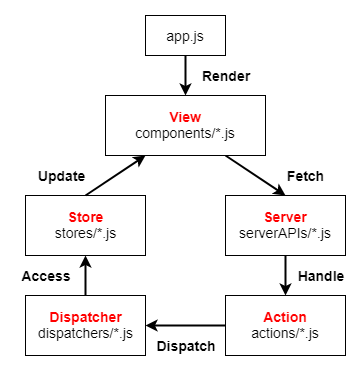
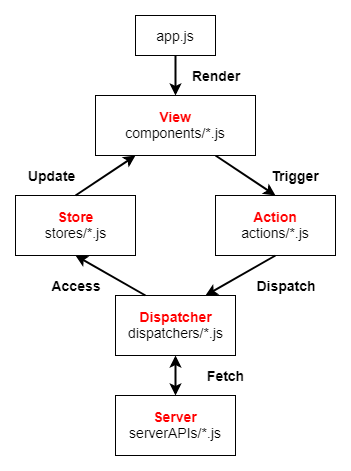
[update]  1. update article of Flux

diff --git a/index.js b/index.js
@@ -2087,7 +2087,7 @@ var Menu = function (_React$Component) {
         props_menu.className += ' ' + this.props.className;
       };
       var props_content = this.createBasicProps('menu-content');
-      var content_height = parseInt(!this.env.styleObj['item-content'] ? CONTENT_HEIGHT : this.env.styleObj['item-content']['height'] ? this.env.styleObj['item-content']['height'] : this.env.styleObj['item-content']['line-height'] ? this.env.styleObj['item-content']['line-height'] : CONTENT_HEIGHT);
+      var content_height = parseInt(this.env.styleObj['item-content']['height']);
       props_content.style['height'] = itemCount * content_height;
       var props_layer = this.createBasicProps('menu-layer');
       var layerNextName = 'layer-' + nextLayer;
@@ -2161,6 +2161,13 @@ var Menu = function (_React$Component) {
           _this4.expandRecursionFn(infoObj);
         }
       });
+      if (!this.env.styleObj['item-content']) {
+        this.env.styleObj['item-content'] = {
+          'height': CONTENT_HEIGHT + 'px'
+        };
+      } else if (!this.env.styleObj['item-content']['height']) {
+        this.env.styleObj['item-content']['height'] = this.env.styleObj['item-content']['line-height'] ? this.env.styleObj['item-content']['line-height'] : this.env.styleObj['item-content']['font-size'] ? this.env.styleObj['item-content']['font-size'] : CONTENT_HEIGHT + 'px';
+      };
     }
   }, {
     key: 'initCollapseStautsFn',
@@ -2270,7 +2277,7 @@ var Menu = function (_React$Component) {
             if (_this5.env.featureCollapsible.enable && _this5.collapseStatusList[infoObj.index]) {
               props_submenu.className += ' collapsed';
             };
-            var content_height = parseInt(!_this5.env.styleObj['item-content'] ? CONTENT_HEIGHT : _this5.env.styleObj['item-content']['height'] ? _this5.env.styleObj['item-content']['height'] : _this5.env.styleObj['item-content']['line-height'] ? _this5.env.styleObj['item-content']['line-height'] : CONTENT_HEIGHT);
+            var content_height = parseInt(_this5.env.styleObj['item-content']['height']);
             props_submenu.style['height'] = _this5.countRecursionFn(infoObj) * content_height;
             var props_layer = _this5.createBasicProps('menu-layer');
             var layerNextName = 'layer-' + nextLayer;
@@ -3994,7 +4001,7 @@ exports = module.exports = __webpack_require__(90)(false);
 
 
 // module
-exports.push([module.i, "body {\n  margin: 0;\n  padding: 0;\n  font-size: 16px;\n  font-family: Arial, 'Times New Roman', Times, serif;\n  font-weight: 100;\n  overflow-x: hidden;\n}\nspan + span {\n  margin-left: 5px;\n}\nbutton {\n  font-size: 14px;\n}\n.wrapper {\n  width: 100%;\n  height: 100%;\n}\n.wrapper.wrapper-home {\n  background-color: #000;\n}\n.wrapper.wrapper-basic,\n.wrapper.wrapper-advance {\n  width: calc(100% - (15px * 2));\n  margin: auto;\n  padding: 15px 15px;\n}\n.linkBtn {\n  cursor: pointer;\n  color: #aaa;\n}\n.linkBtn:hover {\n  color: #000;\n}\n.wrapper .sideContent {\n  width: 200px;\n  background-color: #000;\n  color: #fff;\n  float: left;\n  min-height: 100vh;\n  display: inline-block;\n  vertical-align: top;\n}\n.wrapper .sideContent .header {\n  background-color: #61dafb;\n  margin-bottom: 15px;\n  position: relative;\n  height: 104px;\n}\n.wrapper .sideContent .groupname {\n  background-color: #000;\n  line-height: 20px;\n  text-align: right;\n  padding: 2px 15px;\n}\n.wrapper .sideContent .icon {\n  border-radius: 10px;\n  width: 50px;\n  height: 50px;\n  line-height: 50px;\n  background-color: #000;\n  text-align: center;\n  margin: 15px;\n  font-size: 36px;\n}\n.wrapper .sideContent .icon .fa {\n  vertical-align: middle;\n}\n.wrapper .sideContent .welcome {\n  left: calc(50px + (15px * 2));\n  line-height: 20px;\n  text-align: center;\n  padding: 30px 0;\n  position: absolute;\n  bottom: 0;\n  right: 0;\n  color: #000;\n}\n.wrapper .mainContent {\n  width: calc(100% - (200px + 130px ));\n  display: inline-block;\n  padding-right: 130px;\n  background-color: #fff;\n}\n.btb-exampleLayout.wrapper {\n  display: inline-block;\n  width: unset;\n}\n.btb-exampleLayout.title {\n  font-size: 16px;\n  color: #000;\n  font-weight: 700;\n  margin: 5px 0;\n}\n.btb-exampleLayout.part {\n  margin: 5px;\n}\n.btb-exampleLayout.block {\n  min-width: 150px;\n  vertical-align: top;\n}\n.btb-exampleLayout.inlineBlock {\n  min-width: 150px;\n  vertical-align: top;\n  display: inline-block;\n}\n.btb-exampleLayout.inlineBlock + .inlineBlock {\n  margin-left: 10px;\n}\n.btb-articleLayout.mainTitle {\n  font-size: 30px;\n  font-weight: bold;\n  margin: 30px 15px 0;\n}\n.btb-articleLayout.mainDescription {\n  margin: 0 15px 30px;\n}\n.btb-articleLayout.section {\n  width: 100%;\n  font-size: 14px;\n}\n.btb-articleLayout.section + .btb-articleLayout.section {\n  margin-top: 30px;\n}\n.btb-articleLayout.sectionTitle {\n  color: #aaa;\n  border-bottom: 1px solid #aaa;\n  margin: 0 15px;\n  font-weight: bold;\n}\n.btb-articleLayout.sectionSubtitle {\n  font-weight: bold;\n  margin: 15px 0;\n}\n.btb-articleLayout.content {\n  color: #000;\n  margin: 15px 30px;\n}\n.btb-articleLayout.content-pre {\n  color: #f3f3f3;\n  background-color: #373940;\n  font-family: Consolas, \"Liberation Mono\", Menlo, Monaco, Courier, monospace;\n  margin: 15px 30px;\n  padding: 10px 15px;\n  white-space: pre-wrap;\n}\n.btb-articleLayout.content-item {\n  text-align: center;\n  margin: 15px 30px;\n}\n.btb-articleLayout.notice {\n  color: #aaa;\n  display: inline;\n}\n.btb-articleLayout.buttonGroup {\n  margin: 0 15px;\n}\n.btb-articleRedirectBtn {\n  border: 1px solid #aaa;\n  border-radius: 15px;\n  color: #aaa;\n  cursor: pointer;\n  font-size: 13px;\n  padding: 3px 5px;\n  position: fixed;\n  bottom: 15px;\n  right: 15px;\n}\n.btb-articleRedirectBtn:hover {\n  border-color: #000;\n  color: #000;\n}\n.example-userList {\n  padding: 5px;\n  border: 1px solid #aaa;\n  border-radius: 5px;\n  box-shadow: 2px 2px 4px 2px #aaa;\n}\n.example-userList .userList-add {\n  margin-top: 10px;\n}\n.example-userList .userList-add .userList-input {\n  border: 2px solid #aaa;\n  border-radius: 5px;\n  font-size: 10px;\n  padding: 2px 10px;\n}\n.example-userList .userList-add .userList-input:focus,\n.example-userList .userList-add .userList-input:hover {\n  border-color: #777;\n}\n.example-userList .userList-add .userList-addButton {\n  color: #aaa;\n  background: rgba(0, 0, 0, 0) none repeat scroll 0 0;\n  border: medium none;\n  font-size: 15px;\n  margin-left: 5px;\n  padding: 0;\n  vertical-align: top;\n  cursor: pointer;\n}\n.example-userList .userList-add .userList-addButton:hover {\n  color: #ff0000;\n}\n.example-userList .example-block .userList-info {\n  margin-right: 40px;\n}\n.example-userList .userList-list {\n  border: 2px solid #aaa;\n  border-radius: 7px;\n  padding: 0px;\n  margin: 5px 0;\n}\n.example-userList .userList-list .userList-entry {\n  border-radius: 5px;\n  cursor: default;\n  padding: 2px 5px;\n  position: relative;\n  text-align: left;\n  overflow: hidden;\n}\n.example-userList .userList-list .userList-entry .userList-info {\n  margin-right: 40px;\n}\n.example-userList .userList-list .userList-entry .userList-deleteButton {\n  transition: opacity 0.5s ease 0s, right 0.5s ease 0s;\n  color: #ff0000;\n  opacity: 0;\n  position: absolute;\n  right: -20px;\n  top: 3px;\n  cursor: pointer;\n}\n.example-userList .userList-list .userList-entry:hover {\n  background-color: #ccc;\n}\n.example-userList .userList-list .userList-entry:hover .userList-deleteButton {\n  right: 2px;\n  opacity: 1;\n}\n.example-userList .userList-list .userList-entry .userList-moveButton {\n  transition: opacity 0.5s ease 0s, right 0.5s ease 0s;\n  color: #ff0000;\n  opacity: 0;\n  position: absolute;\n  right: -20px;\n  top: 3px;\n  cursor: pointer;\n}\n.example-userList .userList-list .userList-entry:hover {\n  background-color: #ccc;\n}\n.example-userList .userList-list .userList-entry:hover .userList-moveButton {\n  right: 22px;\n  opacity: 1;\n}\n.example-userList .userList-list .userList-entry-empty {\n  list-style: outside none none;\n  text-align: center;\n}\n.btb-menu.menu {\n  color: #fff;\n}\n.btb-menu.menu .layer-item.activeTop {\n  background-color: #373940;\n  border-left: 5px solid #61dafb;\n}\n.btb-menu.menu .layer-item.activeParent > .item-content .content-name {\n  color: #61dafb;\n}\n.btb-menu.menu .layer-item.activeParent > .item-content .collapse-arrow {\n  border-color: #61dafb transparent transparent;\n}\n.btb-menu.menu .layer-item.active > .item-content {\n  background-color: #373940;\n}\n.btb-menu.menu .layer-item.active > .item-content .content-name {\n  color: #61dafb;\n}\n.btb-menu.menu .layer-item.active > .item-content .collapse-arrow {\n  border-color: #61dafb transparent transparent;\n}\n.btb-menu.menu .item-content:hover {\n  background-color: #373940;\n}\n.btb-menu.menu .item-content:hover .content-name {\n  color: #61dafb;\n}\n.btb-menu.menu .item-content:hover .collapse-arrow {\n  border-color: #61dafb transparent transparent;\n}\n.btb-menu.menu .collapse-arrow {\n  border-color: #fff transparent transparent;\n}\n.btb-list.content-nodetree {\n  background-color: #d6e4ff;\n  margin: auto;\n  width: calc(100% - (75px * 2));\n  padding: 15px;\n}\n.btb-table.content-paramlist {\n  margin: auto;\n  width: calc(100% - (60px * 2));\n}\n.btb-table.content-paramlist .table-list {\n  border-collapse: collapse;\n  border-spacing: 0;\n}\n.btb-table.content-paramlist .tr-th {\n  background-color: #d6e4ff;\n  border: 2px solid #d6e4ff;\n  padding: 2px 15px;\n}\n.btb-table.content-paramlist .tr-td {\n  border: 2px solid #d6e4ff;\n  text-align: center;\n  padding: 2px 15px;\n}\n.btb-table.content-paramlist .td-name {\n  text-align: left;\n  white-space: nowrap;\n}\n.btb-table.content-paramlist .td-notice {\n  text-align: left;\n}\n.btb-table.content-paramlist .content-pre {\n  margin: 5px 0;\n  padding: 5px 15px;\n}\n", ""]);
+exports.push([module.i, "body {\n  margin: 0;\n  padding: 0;\n  font-size: 16px;\n  font-family: Arial, 'Times New Roman', Times, serif;\n  font-weight: 100;\n  overflow-x: hidden;\n}\nspan + span {\n  margin-left: 5px;\n}\nbutton {\n  font-size: 14px;\n}\n.wrapper {\n  width: 100%;\n  height: 100%;\n}\n.wrapper.wrapper-home {\n  background-color: #000;\n}\n.wrapper.wrapper-basic,\n.wrapper.wrapper-advance {\n  width: calc(100% - (15px * 2));\n  margin: auto;\n  padding: 15px 15px;\n}\n.linkBtn {\n  cursor: pointer;\n  color: #aaa;\n}\n.linkBtn:hover {\n  color: #000;\n}\n.wrapper .sideContent {\n  width: 200px;\n  background-color: #000;\n  color: #fff;\n  vertical-align: top;\n  display: inline-block;\n  min-height: 100vh;\n}\n.wrapper .sideContent .header {\n  background-color: #61dafb;\n  margin-bottom: 15px;\n  position: relative;\n  height: 104px;\n}\n.wrapper .sideContent .groupname {\n  background-color: #000;\n  line-height: 20px;\n  text-align: right;\n  padding: 2px 15px;\n}\n.wrapper .sideContent .icon {\n  border-radius: 10px;\n  width: 50px;\n  height: 50px;\n  line-height: 50px;\n  background-color: #000;\n  text-align: center;\n  margin: 15px;\n  font-size: 36px;\n}\n.wrapper .sideContent .icon .fa {\n  vertical-align: middle;\n}\n.wrapper .sideContent .welcome {\n  left: calc(50px + (15px * 2));\n  line-height: 20px;\n  text-align: center;\n  padding: 30px 0;\n  position: absolute;\n  bottom: 0;\n  right: 0;\n  color: #000;\n}\n.wrapper .mainContent {\n  width: calc(100% - (200px + 130px ));\n  padding-right: 130px;\n  background-color: #fff;\n  display: inline-block;\n  min-height: 100vh;\n}\n.btb-exampleLayout.wrapper {\n  display: inline-block;\n  width: unset;\n}\n.btb-exampleLayout.title {\n  font-size: 16px;\n  color: #000;\n  font-weight: 700;\n  margin: 5px 0;\n}\n.btb-exampleLayout.part {\n  margin: 5px;\n}\n.btb-exampleLayout.block {\n  min-width: 150px;\n  vertical-align: top;\n}\n.btb-exampleLayout.inlineBlock {\n  min-width: 150px;\n  vertical-align: top;\n  display: inline-block;\n}\n.btb-exampleLayout.inlineBlock + .inlineBlock {\n  margin-left: 10px;\n}\n.btb-articleLayout.mainTitle {\n  font-size: 30px;\n  font-weight: bold;\n  margin: 30px 15px 0;\n}\n.btb-articleLayout.mainDescription {\n  margin: 0 15px 30px;\n}\n.btb-articleLayout.section {\n  width: 100%;\n  font-size: 14px;\n}\n.btb-articleLayout.section + .btb-articleLayout.section {\n  margin-top: 30px;\n}\n.btb-articleLayout.sectionTitle {\n  color: #aaa;\n  border-bottom: 1px solid #aaa;\n  margin: 0 15px;\n  font-weight: bold;\n}\n.btb-articleLayout.sectionSubtitle {\n  font-weight: bold;\n  margin: 15px 0;\n}\n.btb-articleLayout.content {\n  color: #000;\n  margin: 15px 30px;\n}\n.btb-articleLayout.content-pre {\n  color: #f3f3f3;\n  background-color: #373940;\n  font-family: Consolas, \"Liberation Mono\", Menlo, Monaco, Courier, monospace;\n  margin: 15px 30px;\n  padding: 10px 15px;\n  white-space: pre-wrap;\n}\n.btb-articleLayout.content-item {\n  text-align: center;\n  margin: 15px 30px;\n}\n.btb-articleLayout.notice {\n  color: #aaa;\n  display: inline;\n}\n.btb-articleLayout.buttonGroup {\n  margin: 0 15px;\n}\n.btb-articleRedirectBtn {\n  border: 1px solid #aaa;\n  border-radius: 15px;\n  color: #aaa;\n  cursor: pointer;\n  font-size: 13px;\n  padding: 3px 5px;\n  position: fixed;\n  bottom: 15px;\n  right: 15px;\n}\n.btb-articleRedirectBtn:hover {\n  border-color: #000;\n  color: #000;\n}\n.example-userList {\n  padding: 5px;\n  border: 1px solid #aaa;\n  border-radius: 5px;\n  box-shadow: 2px 2px 4px 2px #aaa;\n}\n.example-userList .userList-add {\n  margin-top: 10px;\n}\n.example-userList .userList-add .userList-input {\n  border: 2px solid #aaa;\n  border-radius: 5px;\n  font-size: 10px;\n  padding: 2px 10px;\n}\n.example-userList .userList-add .userList-input:focus,\n.example-userList .userList-add .userList-input:hover {\n  border-color: #777;\n}\n.example-userList .userList-add .userList-addButton {\n  color: #aaa;\n  background: rgba(0, 0, 0, 0) none repeat scroll 0 0;\n  border: medium none;\n  font-size: 15px;\n  margin-left: 5px;\n  padding: 0;\n  vertical-align: top;\n  cursor: pointer;\n}\n.example-userList .userList-add .userList-addButton:hover {\n  color: #ff0000;\n}\n.example-userList .example-block .userList-info {\n  margin-right: 40px;\n}\n.example-userList .userList-list {\n  border: 2px solid #aaa;\n  border-radius: 7px;\n  padding: 0px;\n  margin: 5px 0;\n}\n.example-userList .userList-list .userList-entry {\n  border-radius: 5px;\n  cursor: default;\n  padding: 2px 5px;\n  position: relative;\n  text-align: left;\n  overflow: hidden;\n}\n.example-userList .userList-list .userList-entry .userList-info {\n  margin-right: 40px;\n}\n.example-userList .userList-list .userList-entry .userList-deleteButton {\n  transition: opacity 0.5s ease 0s, right 0.5s ease 0s;\n  color: #ff0000;\n  opacity: 0;\n  position: absolute;\n  right: -20px;\n  top: 3px;\n  cursor: pointer;\n}\n.example-userList .userList-list .userList-entry:hover {\n  background-color: #ccc;\n}\n.example-userList .userList-list .userList-entry:hover .userList-deleteButton {\n  right: 2px;\n  opacity: 1;\n}\n.example-userList .userList-list .userList-entry .userList-moveButton {\n  transition: opacity 0.5s ease 0s, right 0.5s ease 0s;\n  color: #ff0000;\n  opacity: 0;\n  position: absolute;\n  right: -20px;\n  top: 3px;\n  cursor: pointer;\n}\n.example-userList .userList-list .userList-entry:hover {\n  background-color: #ccc;\n}\n.example-userList .userList-list .userList-entry:hover .userList-moveButton {\n  right: 22px;\n  opacity: 1;\n}\n.example-userList .userList-list .userList-entry-empty {\n  list-style: outside none none;\n  text-align: center;\n}\n.btb-menu.menu {\n  color: #fff;\n}\n.btb-menu.menu .layer-item.activeTop {\n  background-color: #373940;\n  border-left: 5px solid #61dafb;\n}\n.btb-menu.menu .layer-item.activeParent > .item-content .content-name {\n  color: #61dafb;\n}\n.btb-menu.menu .layer-item.activeParent > .item-content .collapse-arrow {\n  border-color: #61dafb transparent transparent;\n}\n.btb-menu.menu .layer-item.active > .item-content {\n  background-color: #373940;\n}\n.btb-menu.menu .layer-item.active > .item-content .content-name {\n  color: #61dafb;\n}\n.btb-menu.menu .layer-item.active > .item-content .collapse-arrow {\n  border-color: #61dafb transparent transparent;\n}\n.btb-menu.menu .item-content:hover {\n  background-color: #373940;\n}\n.btb-menu.menu .item-content:hover .content-name {\n  color: #61dafb;\n}\n.btb-menu.menu .item-content:hover .collapse-arrow {\n  border-color: #61dafb transparent transparent;\n}\n.btb-menu.menu .collapse-arrow {\n  border-color: #fff transparent transparent;\n}\n.btb-list.content-nodetree {\n  background-color: #d6e4ff;\n  margin: auto;\n  width: calc(100% - (75px * 2));\n  padding: 15px;\n}\n.btb-table.content-paramlist {\n  margin: auto;\n  width: calc(100% - (60px * 2));\n}\n.btb-table.content-paramlist .table-list {\n  border-collapse: collapse;\n  border-spacing: 0;\n}\n.btb-table.content-paramlist .tr-th {\n  background-color: #d6e4ff;\n  border: 2px solid #d6e4ff;\n  padding: 2px 15px;\n}\n.btb-table.content-paramlist .tr-td {\n  border: 2px solid #d6e4ff;\n  text-align: center;\n  padding: 2px 15px;\n}\n.btb-table.content-paramlist .td-name {\n  text-align: left;\n  white-space: nowrap;\n}\n.btb-table.content-paramlist .td-notice {\n  text-align: left;\n}\n.btb-table.content-paramlist .content-pre {\n  margin: 5px 0;\n  padding: 5px 15px;\n}\n", ""]);
 
 // exports
 
@@ -4833,7 +4840,7 @@ var mainDescriptionStr = 'There are my articles introducing some knowledge in co
 var articleListTitle = 'ARTICLE LIST';
 var articleListContent = 'We would list to introduce you some others masterpiece in conceptual. Hope our articles will do help somehow in algorithmic angle. And if you have problem to use them, welcome to contact me. We can figure it out together.';
 
-var articleList = new Array({ 'name': 'Flux Introduction', 'link': 'BTB_ATCS_FLUX', 'updated': '2018-05-06' }, { 'name': 'Redux Introduction', 'link': 'BTB_ATCS_REDUX', 'updated': '2018-05-06' });
+var articleList = new Array({ 'name': 'Flux Introduction', 'link': 'BTB_ATCS_FLUX', 'updated': '2018-07-22' }, { 'name': 'Redux Introduction', 'link': 'BTB_ATCS_REDUX', 'updated': '2018-05-06' });
 
 var Index = function Index(props) {
   var content = [];
@@ -4885,7 +4892,7 @@ var Index = function Index(props) {
               _react2.default.createElement(
                 _articleLayout2.default.Notice,
                 null,
-                '[UPDATED: ',
+                ' [UPDATED: ',
                 entry.updated,
                 ']'
               )
@@ -5027,7 +5034,7 @@ var productionTitle = 'PRODUCTION';
 var productionContent = 'Here we go! This is the example in Flux version.';
 
 var advancedTitle = 'ADVANCED';
-var advancedContent = 'The more usual case. What if our data is coming from server and where should we add server API in the Flux flow? To keep the rule of Flux framework. We use APIs to access server\'s data before Action. However why it is not added duing Store? Think the definition of "What the data actually is for Flux?". Here in Flux, the data means View\'s data, not the server\'s data. So that, we allowed to access server\'s data directly, then Store will get data from server. The following picture is the flow of Flux with server API.';
+var advancedContent = 'The more usual case. What if our data is coming from server and where should we add server API in the Flux flow? Here is a example added server API to dispatch.';
 var advancedServerContent = _react2.default.createElement(
   'span',
   null,
@@ -6503,7 +6510,7 @@ var productionTitle = 'PRODUCTION';
 var productionContent = 'Here we go! This is the example in Redux version.';
 
 var advancedTitle = 'ADVANCED';
-var advancedContent = 'In Flux\'s, We can update by ourself. However in Redux\'s, we centralize all state in Redux. So that with difference from Flux\'s, we need fetch API beneath reducer. And that is reason why we almost use stateless function both in Container and Component.';
+var advancedContent = 'Same as our article of Flux, we will need read / write data by server API. Here is Redux\'s version.';
 var advancedServerContent = _react2.default.createElement(
   'span',
   null,
@@ -10577,6 +10584,8 @@ Object.defineProperty(exports, "__esModule", {
 
 var _createClass = function () { function defineProperties(target, props) { for (var i = 0; i < props.length; i++) { var descriptor = props[i]; descriptor.enumerable = descriptor.enumerable || false; descriptor.configurable = true; if ("value" in descriptor) descriptor.writable = true; Object.defineProperty(target, descriptor.key, descriptor); } } return function (Constructor, protoProps, staticProps) { if (protoProps) defineProperties(Constructor.prototype, protoProps); if (staticProps) defineProperties(Constructor, staticProps); return Constructor; }; }();
 
+var _extends = Object.assign || function (target) { for (var i = 1; i < arguments.length; i++) { var source = arguments[i]; for (var key in source) { if (Object.prototype.hasOwnProperty.call(source, key)) { target[key] = source[key]; } } } return target; };
+
 var _react = __webpack_require__(0);
 
 var _react2 = _interopRequireDefault(_react);
@@ -10627,14 +10636,15 @@ var rourceCodeSubTitle_Body = 'Body';
 var rourceCodeSubTitle_Mode = 'mode';
 var rourceCodeSubTitle_Style = 'Style';
 
-var ROURCECODE_RENDER_PRE = '<BTBTable \n  tableHeadArr={tableHeaderArr}\n  tableBobyArr={dataArr}\n  modeObj={modeObj}\n  styleObj={styleObj}\n  refFn={(ref)=>{this.listRef=ref}}\n/>';
+var ROURCECODE_RENDER_PRE = '<BTBTable \n  tableHeadArr={tableHeaderArr}\n  tableBobyArr={tableBodyArr}\n  modeObj={modeObj}\n  styleObj={styleObj}\n  refFn={(ref)=>{this.listRef=ref}}\n/>';
 var ROURCECODE_HEADER_PRE = 'tableHeaderArr = [\n  {name: \'Name\',        index: \'name\'},\n  {name: \'Description\', index: \'desc\'},\n  {name: \'OS Type\',     index: \'osType\'},\n  {name: \'IP Address\',  index: \'ipAddr\'},\n  {name: \'MAC Address\', index: \'macAddr\'},\n  {name: \'Statue\',      index: \'status\'}\n];';
-var ROURCECODE_BODY_PRE = 'dataArr = [\n  {\n    name: \'Device 1\', \n    desc: \'My phone\', \n    osType: \'IOS\', \n    ipAddr: \'192.168.0.50\', \n    macAddr: \'11:22:33:44:55:66\', \n    status: \'Disconnected\'\n  }\n];';
+var ROURCECODE_BODY_PRE = 'tableBodyArr = [\n  {\n    name: \'Device 1\', \n    desc: \'My phone\', \n    osType: \'IOS\', \n    ipAddr: \'192.168.0.50\', \n    macAddr: \'11:22:33:44:55:66\', \n    status: \'Disconnected\'\n  }\n];';
 var ROURCECODE_MODE_PRE = 'modeObj = {\n  mode : \'list\'\n};';
 var ROURCECODE_STYLE_PRE = 'styleObj = {\n  \'btb-table\': {\n    \'text-align\': \'center\'\n  },\n  \'table-list\': {\n    \'box-shadow\': \'2px 2px 4px 2px #aaa\'\n  },\n  \'tr-th\': {\n    \'background-color\': \'#bae7ff\',\n    \'padding\': \'2px 5px\'\n  },\n  \'tr-td\': {\n    \'padding\': \'2px 10px\'\n  },\n  \'td-name\': {\n    \'font-weight\': \'bold\'\n  },\n  \'td-ipAddr\': {\n    \'color\': \'blue\',\n    \'text-decoration\': \'underline\'\n  }\n};';
 
-var tableHeaderArr = [{ name: 'Name', index: 'name' }, { name: 'Description', index: 'desc' }, { name: 'OS Type', index: 'osType' }, { name: 'IP Address', index: 'ipAddr' }, { name: 'MAC Address', index: 'macAddr' }, { name: 'Statue', index: 'status' }];
-var dataArr = [{ name: 'Device 1', desc: 'My phone', osType: 'IOS', ipAddr: '192.168.0.50', macAddr: '11:22:33:44:55:66', status: 'Disconnected' }];
+var sortFeatureArr = [{ sortable: true, sortType: '', sortContent: '', defaultSortState: 'desc' }, { sortable: true, sortType: '', sortContent: '', defaultSortState: 'asc' }, { sortable: true, sortType: '', sortContent: '', defaultSortState: 'desc' }, { sortable: true, sortType: '', sortContent: '', defaultSortState: 'desc' }, { sortable: true, sortType: '', sortContent: '', defaultSortState: 'asc' }, { sortable: false, sortType: '', sortContent: '', defaultSortState: 'asc' }, { sortable: true, sortType: '', sortContent: '', defaultSortState: 'asc' }];
+var tableHeaderArr = [_extends({ name: 'Name', index: 'name' }, sortFeatureArr[0]), _extends({ name: 'Type', index: 'devType' }, sortFeatureArr[1]), _extends({ name: 'OS', index: 'osType' }, sortFeatureArr[2]), _extends({ name: 'IP', index: 'ipAddr' }, sortFeatureArr[3]), _extends({ name: 'MAC', index: 'macAddr' }, sortFeatureArr[4]), _extends({ name: 'Traffic(tx / rx)', index: 'traffic' }, sortFeatureArr[5]), _extends({ name: 'Statue', index: 'statusDesc' }, sortFeatureArr[6])];
+var tableBodyArr = [{ name: 'Device 1', devType: 'phone', osType: 'ios', ipAddr: '192.168.0.50', macAddr: 'B4:A2:07:44:55:2A', traffic: '0 MB / 0 KB', status: 0, statusDesc: 'Disconnected' }, { name: 'Device 2', devType: 'switch', osType: 'linux', ipAddr: '192.168.0.37', macAddr: '7E:EF:02:44:AE:25', traffic: '2.7 MB / 263 KB', status: 1, statusDesc: 'Connected' }, { name: 'Device 3', devType: 'ap', osType: 'linux', ipAddr: '192.168.0.121', macAddr: 'EF:2B:15:44:32:B4', traffic: '0 MB / 0 KB', status: 2, statusDesc: 'Locked' }, { name: 'Device 4', devType: 'phone', osType: 'android', ipAddr: '192.168.0.9', macAddr: 'F5:22:33:44:55:35', traffic: '0 MB / 0 KB', status: 0, statusDesc: 'Disconnected' }, { name: 'Device 5', devType: 'ap', osType: 'linux', ipAddr: '192.168.0.27', macAddr: '7E:EF:B2:44:28:3B', traffic: '1.3 MB / 725 KB', status: 1, statusDesc: 'Connected' }, { name: 'Device 6', devType: 'pc', osType: 'windows', ipAddr: '192.168.0.11', macAddr: '11:22:24:44:5E:90', traffic: '0 MB / 0 KB', status: 2, statusDesc: 'Locked' }, { name: 'Device 7', devType: 'phone', osType: 'ios', ipAddr: '192.168.0.6', macAddr: '11:FF:33:44:55:A3', traffic: '1.2 MB / 45 KB', status: 1, statusDesc: 'Connected' }, { name: 'Device 8', devType: 'pc', osType: 'linux', ipAddr: '192.168.0.3', macAddr: 'B2:FE:B8:44:55:6D', traffic: '4.8 MB / 3.7 MB', status: 1, statusDesc: 'Connected' }, { name: 'Device 9', devType: 'pc', osType: 'windows', ipAddr: '192.168.0.18', macAddr: 'E4:AA:74:44:38:E1', traffic: '0 MB / 0 KB', status: 2, statusDesc: 'Locked' }, { name: 'Device 10', devType: 'switch', osType: 'linux', ipAddr: '192.168.0.245', macAddr: 'E2:BA:33:44:48:AB', traffic: '0 MB / 0 KB', status: 0, statusDesc: 'Disconnected' }, { name: 'Device 11', devType: 'ap', osType: 'linux', ipAddr: '192.168.0.210', macAddr: '2A:FE:7A:27:38:27', traffic: '0 MB / 0 KB', status: 0, statusDesc: 'Disconnected' }, { name: 'Device 12', devType: 'phone', osType: 'android', ipAddr: '192.168.0.163', macAddr: 'FE:22:9B:44:26:08', traffic: '0 MB / 0 KB', status: 2, statusDesc: 'Locked' }, { name: 'Device 13', devType: 'phone', osType: 'android', ipAddr: '192.168.0.84', macAddr: 'B4:22:27:44:55:B2', traffic: '1.5 MB / 235 KB', status: 1, statusDesc: 'Connected' }];
 var modeObj = {
   mode: 'list'
 };
@@ -10705,7 +10715,7 @@ var Example = function (_Component) {
             null,
             _react2.default.createElement(_blacktboxTable2.default, {
               tableHeadArr: tableHeaderArr,
-              tableBobyArr: dataArr,
+              tableBobyArr: tableBodyArr,
               modeObj: modeObj,
               styleObj: styleObj,
               refFn: function refFn(ref) {
@@ -10885,14 +10895,14 @@ var rourceCodeSubTitle_Body = 'Body';
 var rourceCodeSubTitle_Mode = 'mode';
 var rourceCodeSubTitle_Style = 'Style';
 
-var ROURCECODE_RENDER_PRE = '<BTBTable \n  tableHeadArr={tableHeaderArr}\n  tableBobyArr={dataArr}\n  modeObj={modeObj}\n  styleObj={styleObj}\n  refFn={(ref)=>{this.infoRef=ref}}\n/>';
+var ROURCECODE_RENDER_PRE = '<BTBTable \n  tableHeadArr={tableHeaderArr}\n  tableBobyArr={tableBodyArr}\n  modeObj={modeObj}\n  styleObj={styleObj}\n  refFn={(ref)=>{this.infoRef=ref}}\n/>';
 var ROURCECODE_HEADER_PRE = 'tableHeaderArr = [\n  {name: \'Name\',        index: \'name\'},\n  {name: \'Description\', index: \'desc\'},\n  {name: \'OS Type\',     index: \'osType\'},\n  {name: \'IP Address\',  index: \'ipAddr\'},\n  {name: \'MAC Address\', index: \'macAddr\'},\n  {name: \'Statue\',      index: \'status\'}\n];';
-var ROURCECODE_BODY_PRE = 'dataArr = [\n  {\n    name: \'Device 1\', \n    desc: \'My phone\', \n    osType: \'IOS\', \n    ipAddr: \'192.168.0.50\', \n    macAddr: \'11:22:33:44:55:66\', \n    status: \'Disconnected\'\n  }\n];';
+var ROURCECODE_BODY_PRE = 'tableBodyArr = [\n  {\n    name: \'Device 1\', \n    desc: \'\', \n    osType: \'IOS\', \n    ipAddr: \'192.168.0.50\', \n    macAddr: \'11:22:33:44:55:66\', \n    status: \'Disconnected\'\n  }\n];';
 var ROURCECODE_MODE_PRE = 'modeObj = {\n  mode : \'info\'\n};';
 var ROURCECODE_STYLE_PRE = 'styleObj = {\n  \'btb-table\': {\n    \'text-align\': \'center\'\n  },\n  \'table-info\': {\n    \'margin\': \'auto\',\n    \'box-shadow\': \'2px 2px 4px 2px #aaa\'\n  },\n  \'tr-th\': {\n    \'background-color\': \'#bae7ff\',\n    \'padding\': \'2px 5px\'\n  },\n  \'tr-td\': {\n    \'padding\': \'2px 10px\'\n  },\n  \'tr-name\': {\n    \'font-weight\': \'bold\'\n  },\n  \'td-ipAddr\': {\n    \'color\': \'blue\',\n    \'text-decoration\': \'underline\'\n  }\n};';
 
-var tableHeaderArr = [{ name: 'Name', index: 'name' }, { name: 'Description', index: 'desc' }, { name: 'OS Type', index: 'osType' }, { name: 'IP Address', index: 'ipAddr' }, { name: 'MAC Address', index: 'macAddr' }, { name: 'Statue', index: 'status' }];
-var dataArr = [{ name: 'Device 1', desc: 'My phone', osType: 'IOS', ipAddr: '192.168.0.50', macAddr: '11:22:33:44:55:66', status: 'Disconnected' }];
+var tableHeaderArr = [{ name: 'Name', index: 'name' }, { name: 'Type', index: 'devType' }, { name: 'OS', index: 'osType' }, { name: 'IP Address', index: 'ipAddr' }, { name: 'MAC Address', index: 'macAddr' }, { name: 'Traffic(tx / rx)', index: 'traffic' }, { name: 'Statue', index: 'statusDesc' }];
+var tableBodyArr = [{ name: 'Device 1', devType: 'phone', osType: 'ios', ipAddr: '192.168.0.50', macAddr: 'B4:A2:07:44:55:2A', traffic: '1.7 MB / 45 KB', status: 0, statusDesc: 'Disconnected' }];
 var modeObj = {
   mode: 'info'
 };
@@ -10964,7 +10974,7 @@ var Example = function (_Component) {
             null,
             _react2.default.createElement(_blacktboxTable2.default, {
               tableHeadArr: tableHeaderArr,
-              tableBobyArr: dataArr,
+              tableBobyArr: tableBodyArr,
               modeObj: modeObj,
               styleObj: styleObj,
               refFn: function refFn(ref) {
